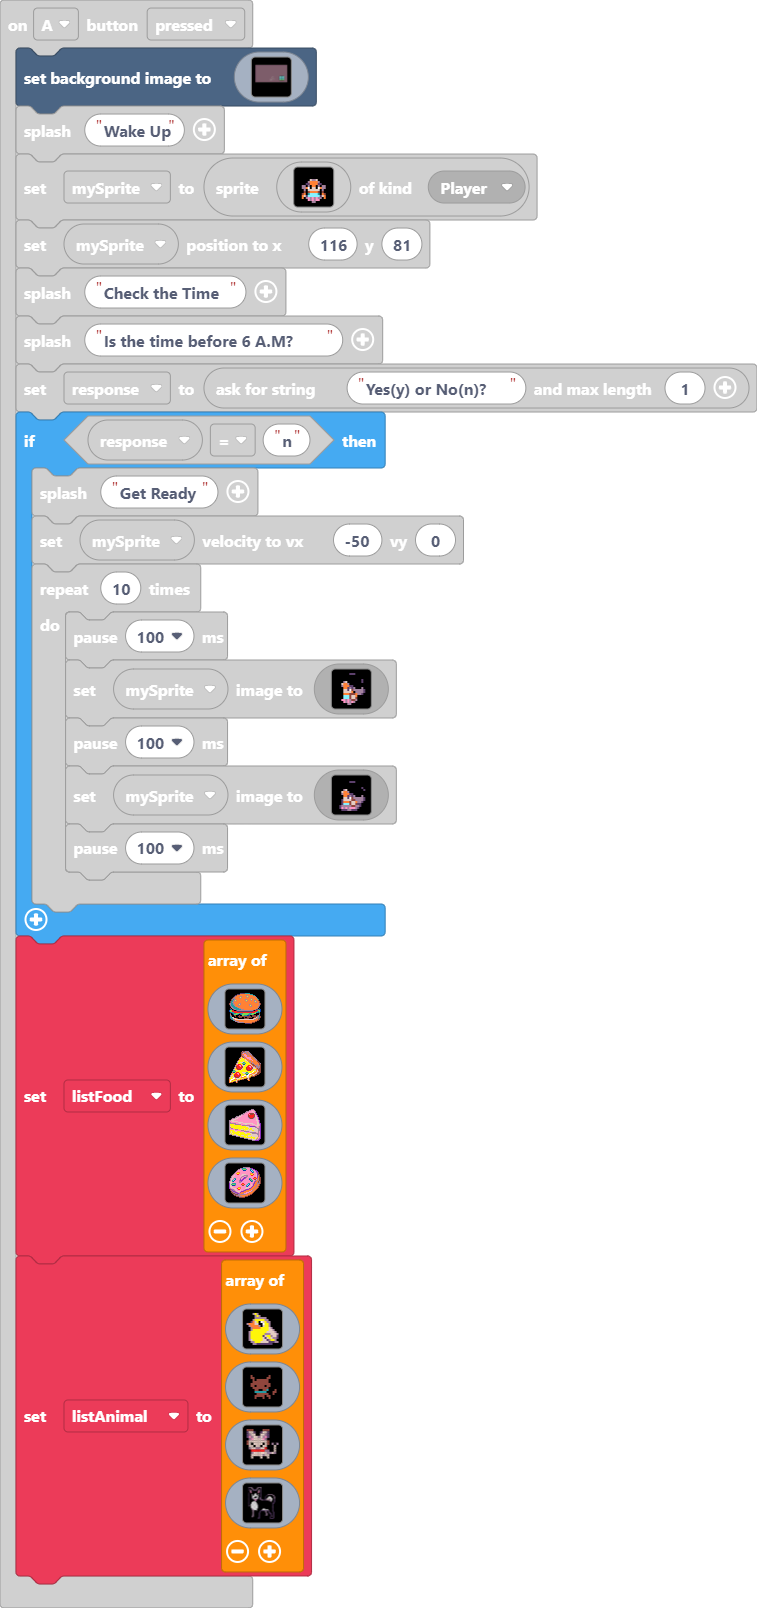
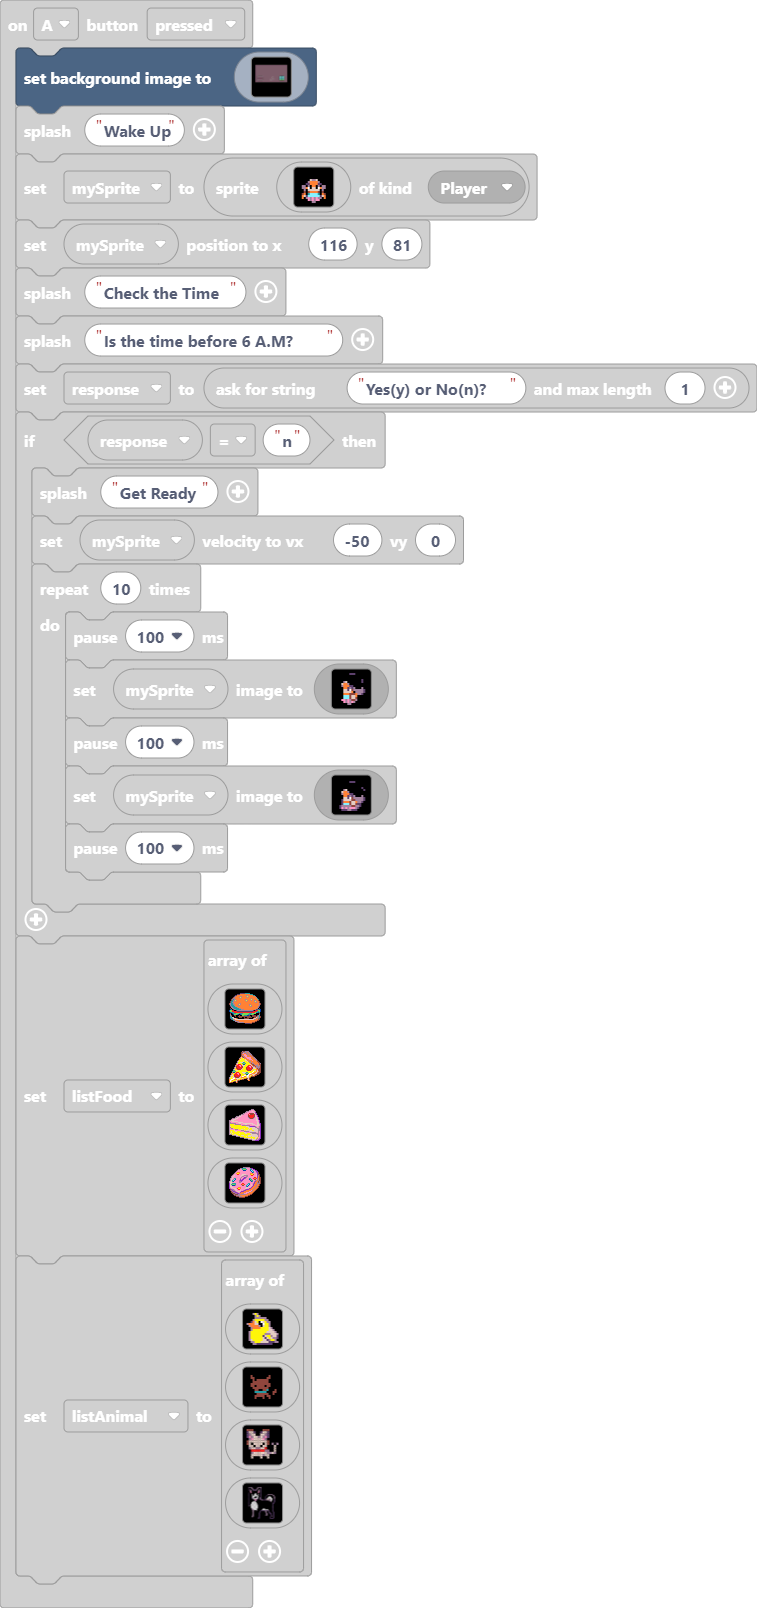
Update main.blocks, main.ts

Changed region(s): [[0.0, 0.2488, 0.5165, 0.995], [0.395, 0.2488, 0.5165, 0.3109]]

diff --git a/main.ts b/main.ts
@@ -63,32 +63,32 @@ controller.A.onEvent(ControllerButtonEvent.Pressed, function () {
         bbbbbbbbbbbbbbbbbbbbbbbbbbbbbbbbbbbbbbbbbbbbbbbbbbbbbbbbbbbbbbbbbbbbbbbbbbbbbbbbbbbbbbbbbbbbbbbbbbbbbbbbbbbbbbbbbbbbbbbbbbbbbbbbbbbbbbbbbbbbbbbbbbbbbbbbbbbbbbbb
         bbbbbbbbbbbbbbbbbbbbbbbbbbbbbbbbbbbbbbbbbbbbbbbbbbbbbbbbbbbbbbbbbbbbbbbbbbbbbbbbbbbbbbbbbbbbbbbbbbbbbbbbbbbbbbbbbbbbbbbbbbbbbbbbbbbbbbbbbbbbbbbbbbbbbbbbbbbbbbbb
         bbbbbbbbbbbbbbbbbbbbbbbbbbbbbbbbbbbbbbbbbbbbbbbbbbbbbbbbbbbbbbbbbbbbbbbbbbbbbbbbbbbbbbbbbbbbbbbbbbbbbbbbbbbbbbbbbbbbbbbbbbbbbbbbbbbbbbbbbbbbbbbbbbbbbbbbbbbbbbbb
-        bbbbbbbbbbbbbbbbbbbbbbbbbbbbbbbbbbbbbbbbbbbbbbbbbbbbbbbbbbbbbbbbbbbbbbbbbbbbbbbbbbbbbbbbbbbbbbbbbbbbbbbbbbbbbbbbbbbbbbbbbbbffffffffffffffffffffffbbbbbbbbbbbbbbb
[24 lines of base64/hex data omitted]
-        bbbbbbbbbbbbbbbbbbbbbbbbbbbbbbbbbbbbbbbbbbbbbbbbbbbbbbbbbbbbbbbbbbbbbbbbbbbbbbbbbbbbbbbbbbbbbbbbbbbbbbbbbbbbbbbbbbbbbbbbbbbffffffffffffffffffffffbbbbbbbbbbbbbbb
+        bbbbbbbbbbbbbfffffffffffffffffffffffffbbbbbbbbbbbbbbbbbbbbbbbbbbbbbbbbbbbbbbbbbbbbbbbbbbbbbbbbbbbbbbbbbbbbbbbbbbbbbbbbbbbbbffffffffffffffffffffffbbbbbbbbbbbbbbb
[24 lines of base64/hex data omitted]
+        bbbbbbbbbbbbbfffffffffffffffffffffffffbbbbbbbbbbbbbbbbbbbbbbbbbbbbbbbbbbbbbbbbbbbbbbbbbbbbbbbbbbbbbbbbbbbbbbbbbbbbbbbbbbbbbffffffffffffffffffffffbbbbbbbbbbbbbbb
         bbbbbbbbbbbbbbbbbbbbbbbbbbbbbbbbbbbbbbbbbbbbbbbbbbbbbbbbbbbbbbbbbbbbbbbbbbbbbbbbbbbbbbbbbbbbbbbbbbbbbbbbbbbbbbbbbbbbbbbbbbbbbbbbbbbbbbbbbbbbbbbbbbbbbbbbbbbbbbbb
         bbbbbbbbbbbbbbbbbbbbbbbbbbbbbbbbbbbbbbbbbbbbbbbbbbbbbbbbbbbbbbbbbbbbbbbbbbbbbbbbbbbbbbbbbbbbbbbbbbbbbbbbbbbbbbbbbbbbbbbbbbbbbbbbbbbbbbbbbbbbbbbbbbbbbbbbbbbbbbbb
         bbbbbbbbbbbbbbbbbbbbbbbbbbbbbbbbbbbbbbbbbbbbbbbbbbbbbbbbbbbbbbbbbbbbbbbbbbbbbbbbbbbbbbbbbbbbbbbbbbbbbbbbbbbbbbbbbbbbbbbbbbbbbbbbbbbbbbbbbbbbbbbbbbbbbbbbbbbbbbbb
